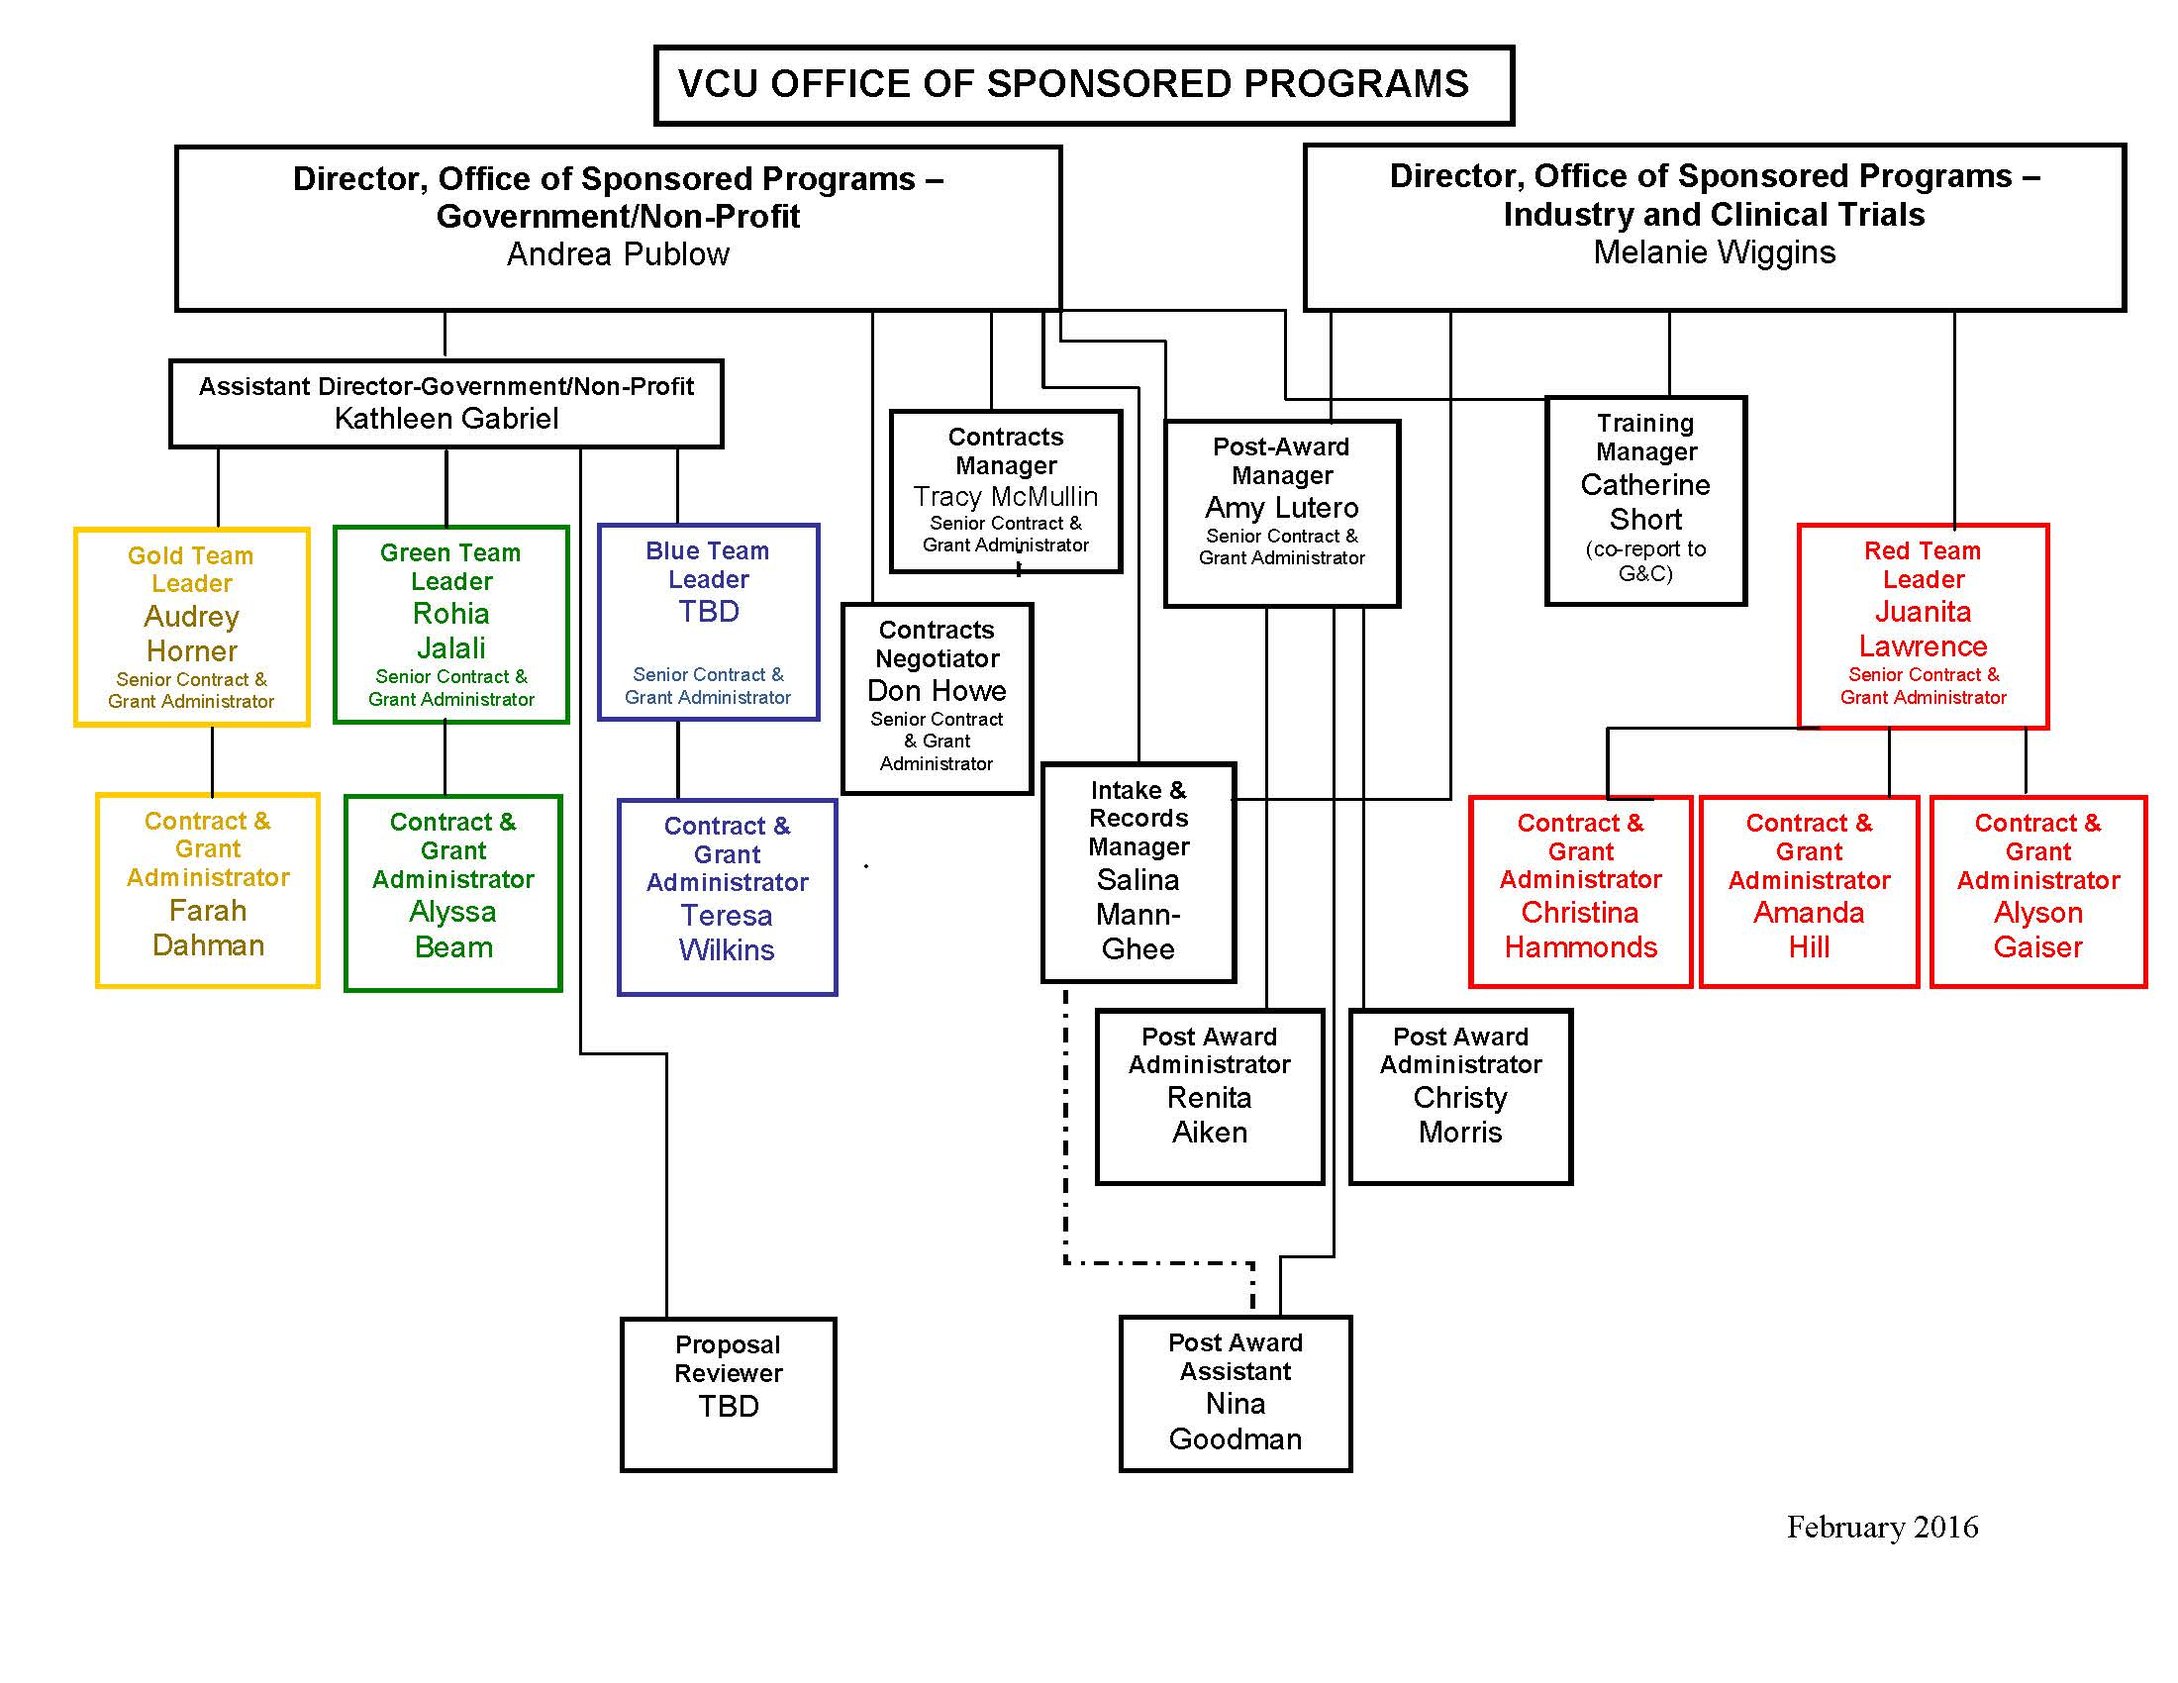
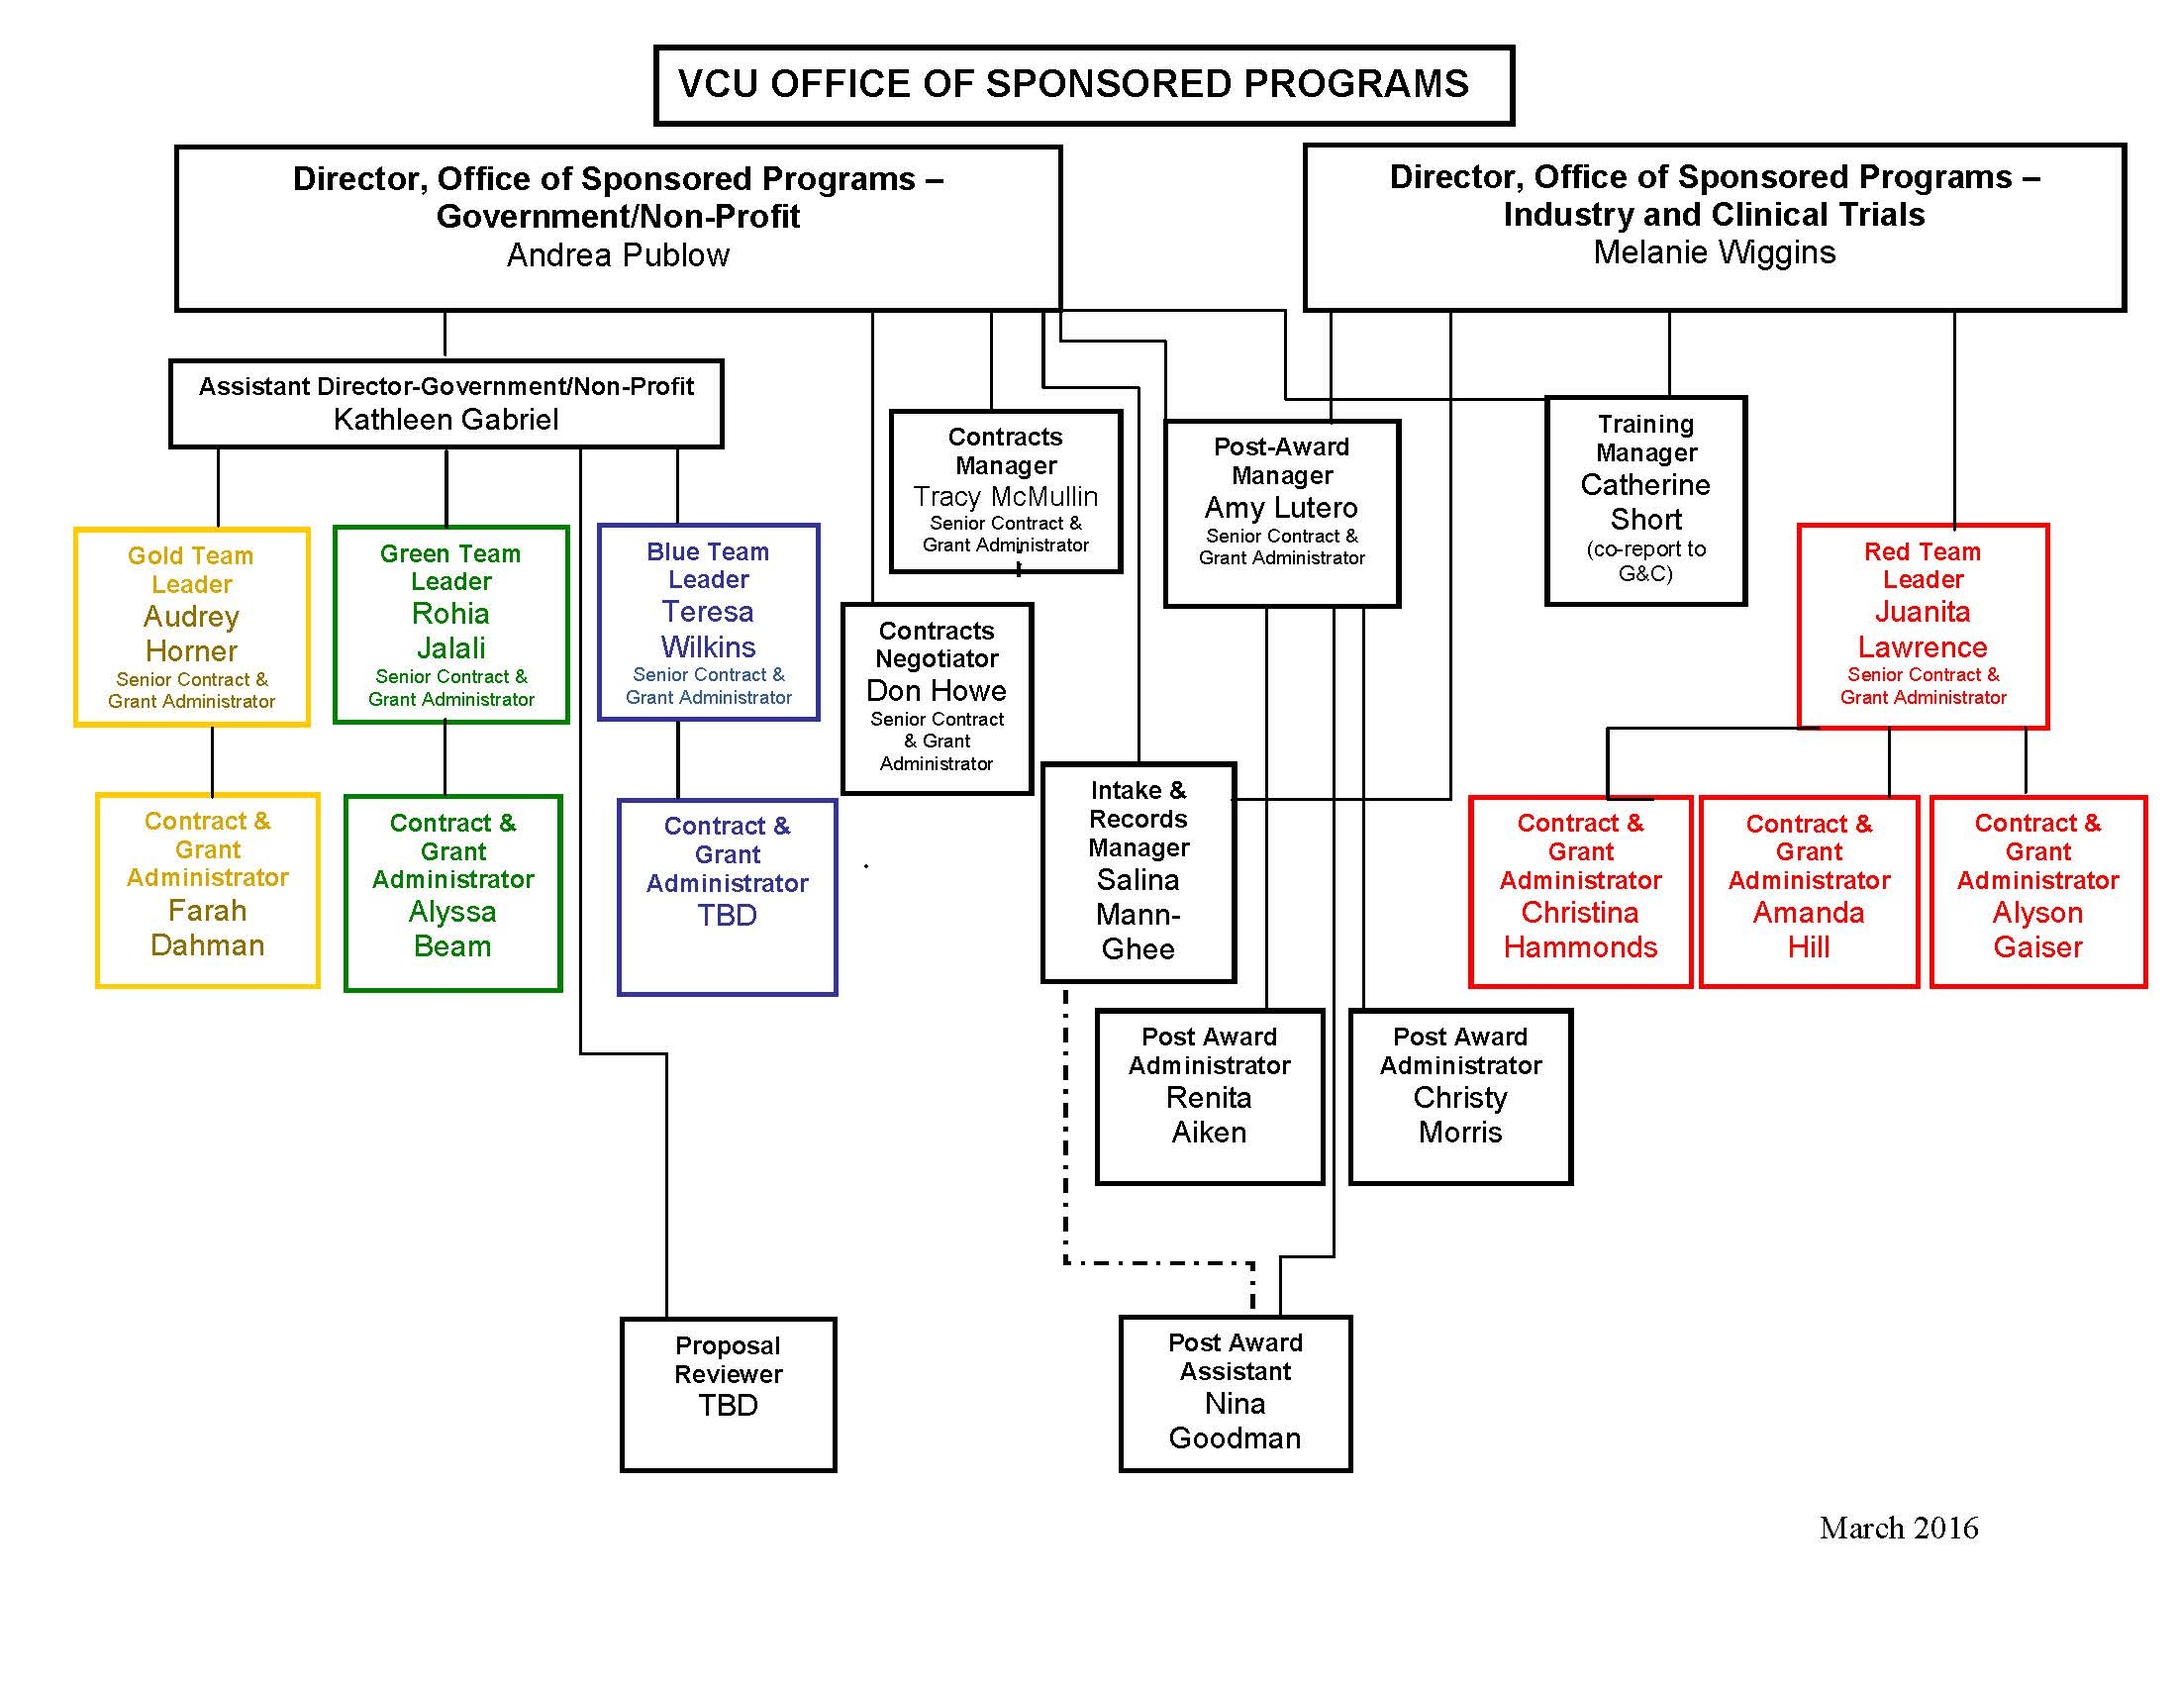
OSP Org Chart Updates

diff --git a/vpr/staff.htm b/vpr/staff.htm
@@ -370,7 +370,7 @@ j=d.createElement(s),dl=l!='dataLayer'?'&l='+l:'';j.async=true;j.src=
                               	</tr>
                                 
                                 <tr>
-                                	<td><h4>TBD</h4>
+                                	<td><h4>Teresa Wilkins</h4>
                                     Blue Team Leader, Government/Non-profit<br/>
                                     Senior Contract &amp; Grant Administrator</td>
                                     
@@ -379,7 +379,7 @@ j=d.createElement(s),dl=l!='dataLayer'?'&l='+l:'';j.async=true;j.src=
                               	</tr>
                                 
                                 <tr>
-                                	<td><h4>Teresa Wilkins</h4>
+                                	<td><h4>TBD</h4>
                                     Blue Team Reviewer, Government/Non-profit<br/>
                                     Contract &amp; Grant Administrator</td>
                            			
@@ -976,7 +976,7 @@ If you would like to be considered for any of our job openings, please visit <a 
   		<ul>
     		<li><a href="http://www.vcu.edu" target="_blank">Virginia Commonwealth University</a> | <a href="http://www.research.vcu.edu/" target="_blank">Office of Research and Innovation</a></li>
             <li>800 East Leigh Street  PO Box 980568 Richmond, VA 23298</li>
-            <li><a href="mailto:erahelp@vcu.edu?subject=Website%20Comments" target="_blank">Contact Us</a> | Updated: <!-- #BeginDate format:Am3 -->02/24/2016<!-- #EndDate --> | <a href="../sitemap.htm">Site Map</a> | <a href="http://ts.vcu.edu/cgi-bin/posh.pl">View text-only version</a></li>
+            <li><a href="mailto:erahelp@vcu.edu?subject=Website%20Comments" target="_blank">Contact Us</a> | Updated: <!-- #BeginDate format:Am3 -->03/15/2016<!-- #EndDate --> | <a href="../sitemap.htm">Site Map</a> | <a href="http://ts.vcu.edu/cgi-bin/posh.pl">View text-only version</a></li>
      	</ul>
 </footer><!--end #signature-->
 
